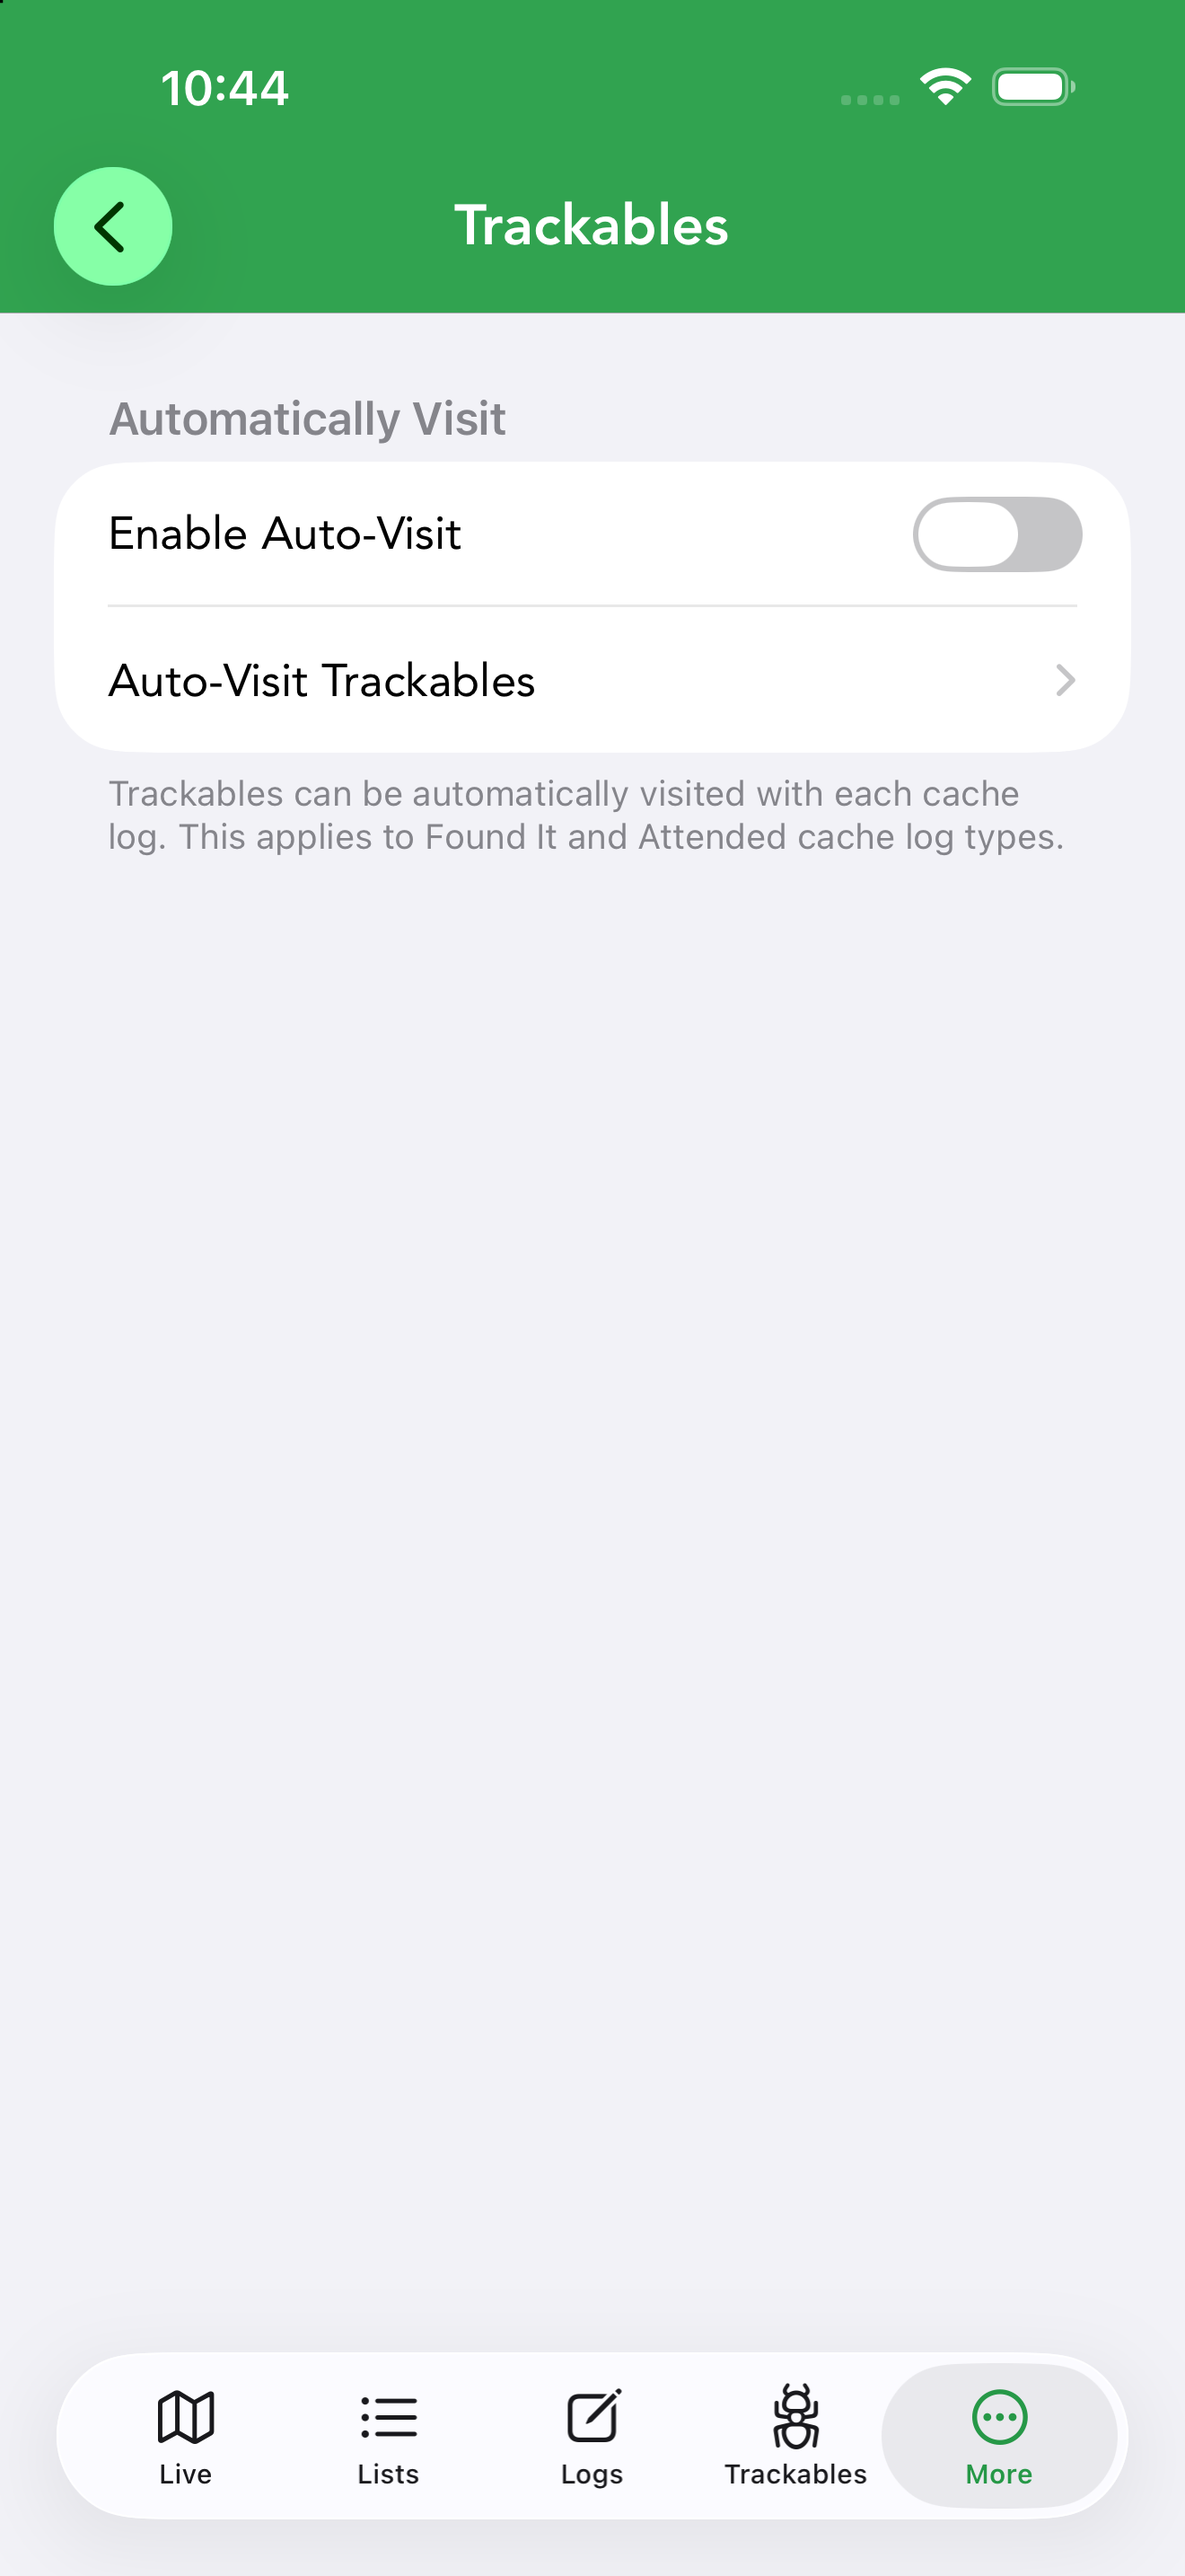
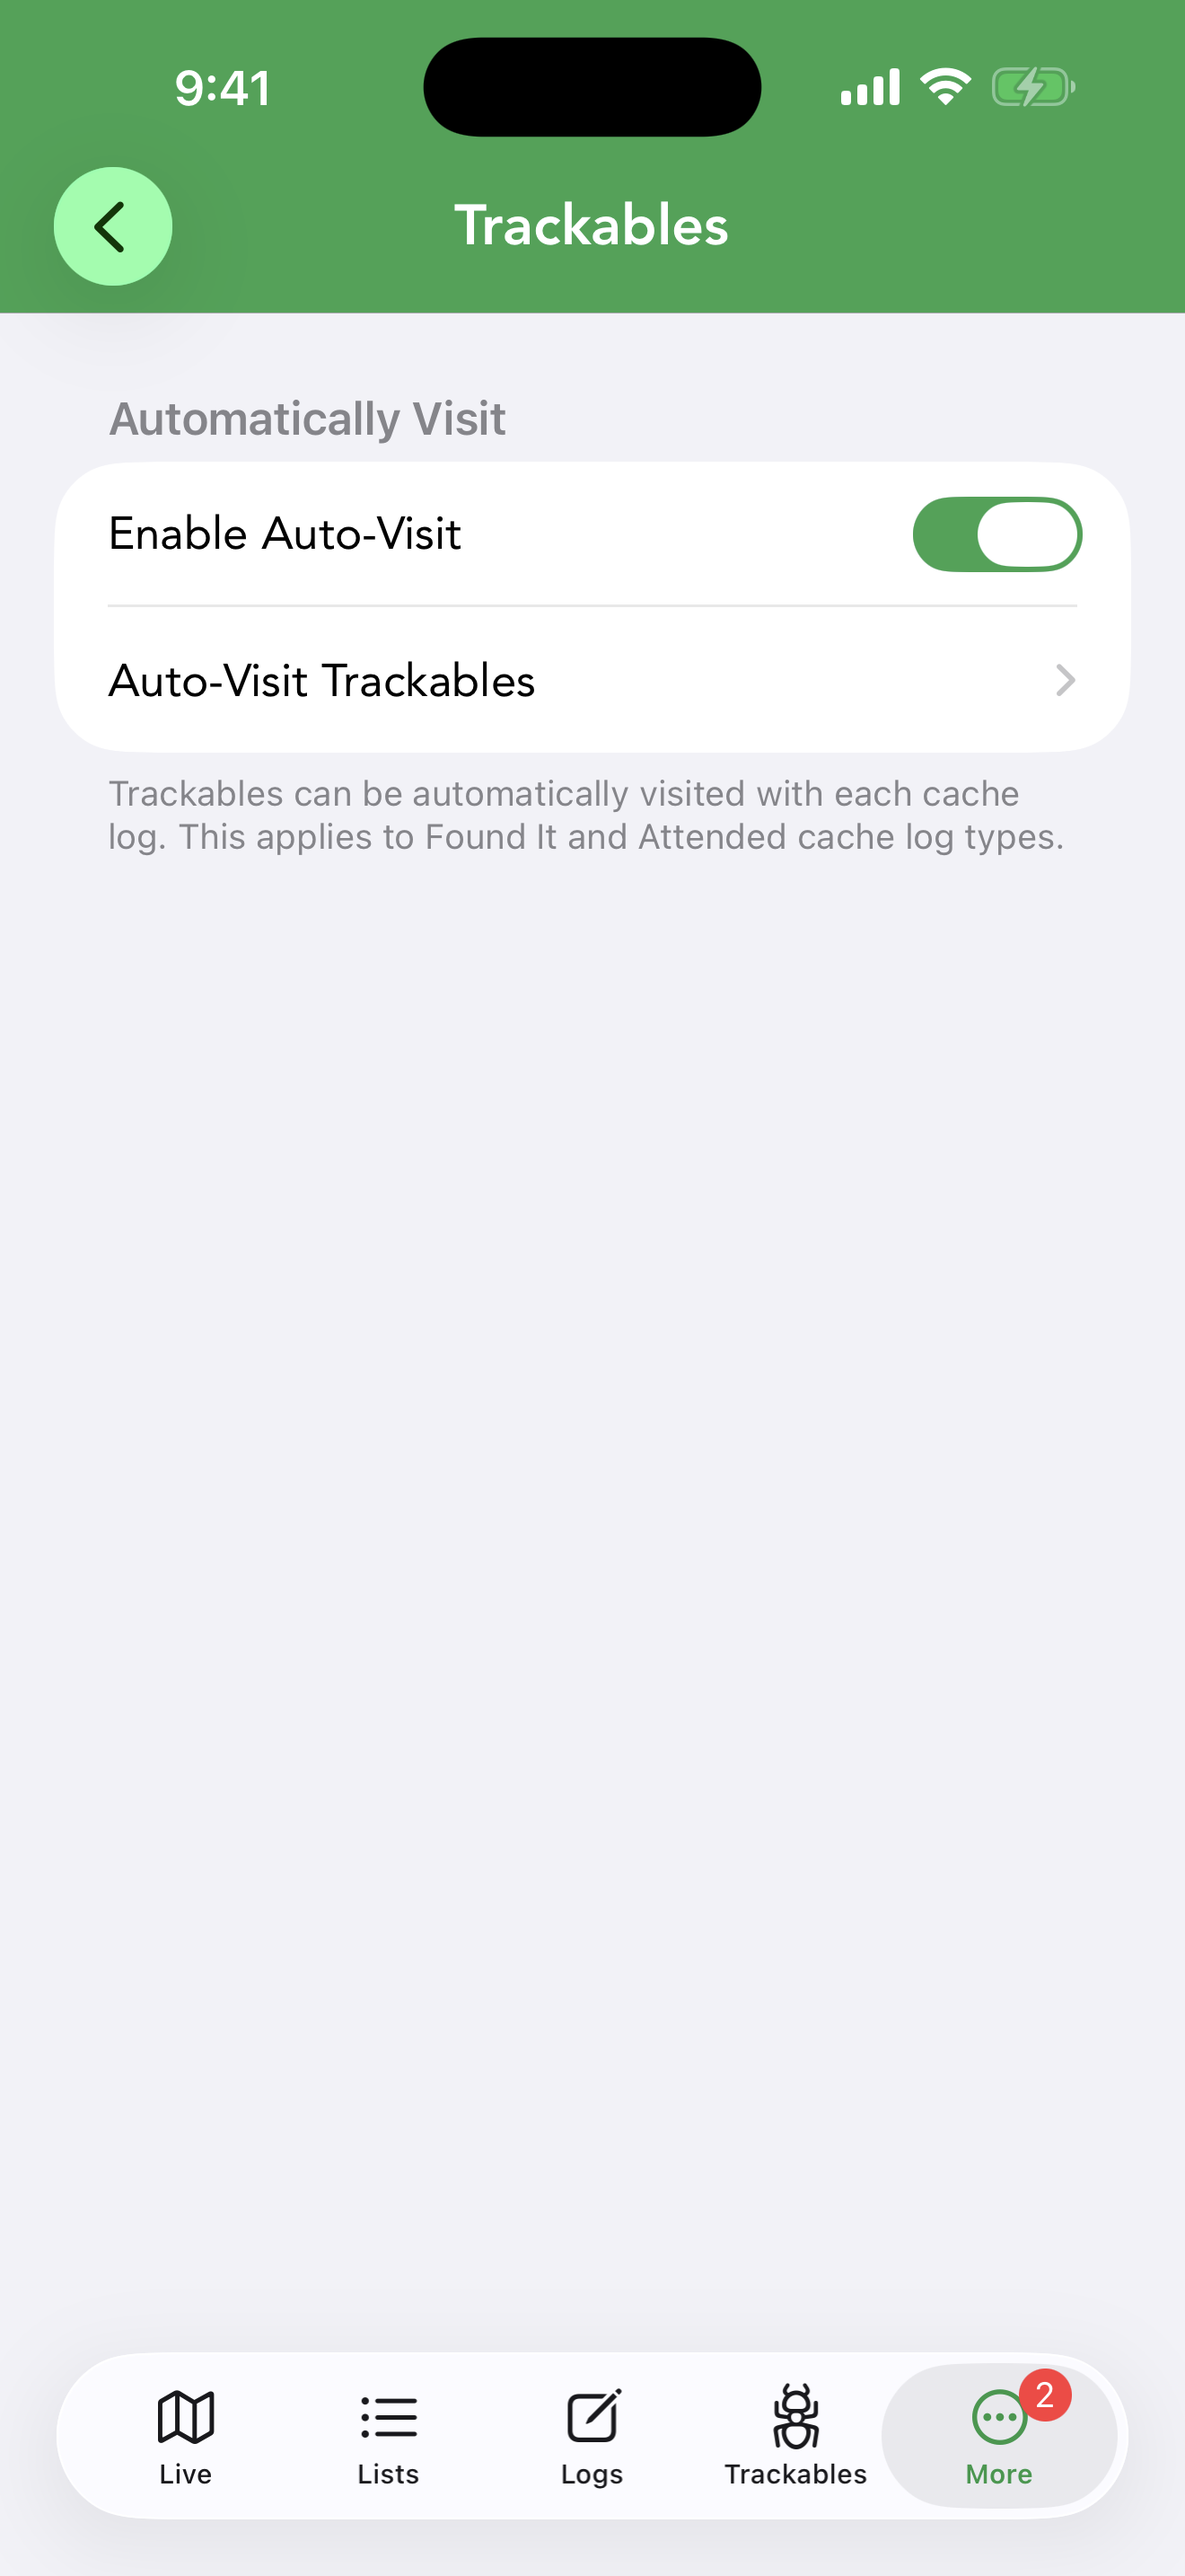
Docs: add Auto-Visit screenshots (settings, list, inventory picker) to Trackables page

Changed region(s): [[0.0, 0.0, 1.0, 0.1241], [0.7765, 0.1862, 0.9318, 0.2483], [0.8076, 0.8999, 0.9008, 0.962]]

diff --git a/docs/trackables.html b/docs/trackables.html
@@ -131,13 +131,18 @@
         </ul>
 
         <h2 id="auto-visit">Auto-Visit</h2>
+<div class="shots">
+<figure class="shot"><img loading="lazy" src="assets/screenshots/settings-trackables.png" alt="Settings &amp;rsaquo; Trackables: the Enable Auto-Visit switch and the Auto-Visit Trackables row." width="248"><figcaption>Settings &rsaquo; Trackables: the Enable Auto-Visit switch and the Auto-Visit Trackables row.</figcaption></figure>
+<figure class="shot"><img loading="lazy" src="assets/screenshots/auto-visit-list.png" alt="The Auto-Visit list &amp;mdash; four trackables that will be visited with every qualifying log; &amp;#8943; manages the list, + adds more." width="248"><figcaption>The Auto-Visit list &mdash; four trackables that will be visited with every qualifying log; &#8943; manages the list, + adds more.</figcaption></figure>
+<figure class="shot"><img loading="lazy" src="assets/screenshots/auto-visit-picker.png" alt="Adding from your inventory: tap rows to check or uncheck them, use the toggle button (top-left) to select all, then tap &amp;#10003; to finish." width="248"><figcaption>Adding from your inventory: tap rows to check or uncheck them, use the toggle button (top-left) to select all, then tap &#10003; to finish.</figcaption></figure>
+</div>
         <p>With <strong>auto-visit</strong>, the trackables you choose from your inventory are automatically marked as visiting every cache you log &mdash; so a Travel Bug riding along racks up mileage without you logging it at each cache. It applies to <strong>Found It</strong>, <strong>Attended</strong> and <strong>Webcam Photo Taken</strong> logs only; other log types never generate visits.</p>
 
         <h3 id="auto-visit-setup">Setting it up</h3>
         <ol>
           <li>Go to <span class="ui-path">More &rsaquo; Settings &rsaquo; Trackables</span> and turn on <strong>Enable Auto-Visit</strong>.</li>
           <li>Tap <strong>Auto-Visit Trackables</strong> to open the Auto-Visit list. It starts empty (&ldquo;No trackables added for auto-visiting&rdquo;).</li>
-          <li>Tap <strong>+</strong> to open your inventory. Tap a trackable to add a checkmark, tap again to remove it; the toggle button at the top-left selects or deselects your whole inventory at once. Tap <strong>Done</strong> when finished.</li>
+          <li>Tap <strong>+</strong> to open your inventory. Tap a trackable to add a checkmark, tap again to remove it; the toggle button at the top-left selects or deselects your whole inventory at once. Tap the <strong>&#10003;</strong> button when finished.</li>
         </ol>
         <p>The <strong>Auto-Visit Trackables</strong> row in Settings shows how many trackables are currently on the list. Only trackables you are holding can be added &mdash; the picker is your <a href="#inventory-owned">Inventory</a>, not the trackables you own.</p>
 
